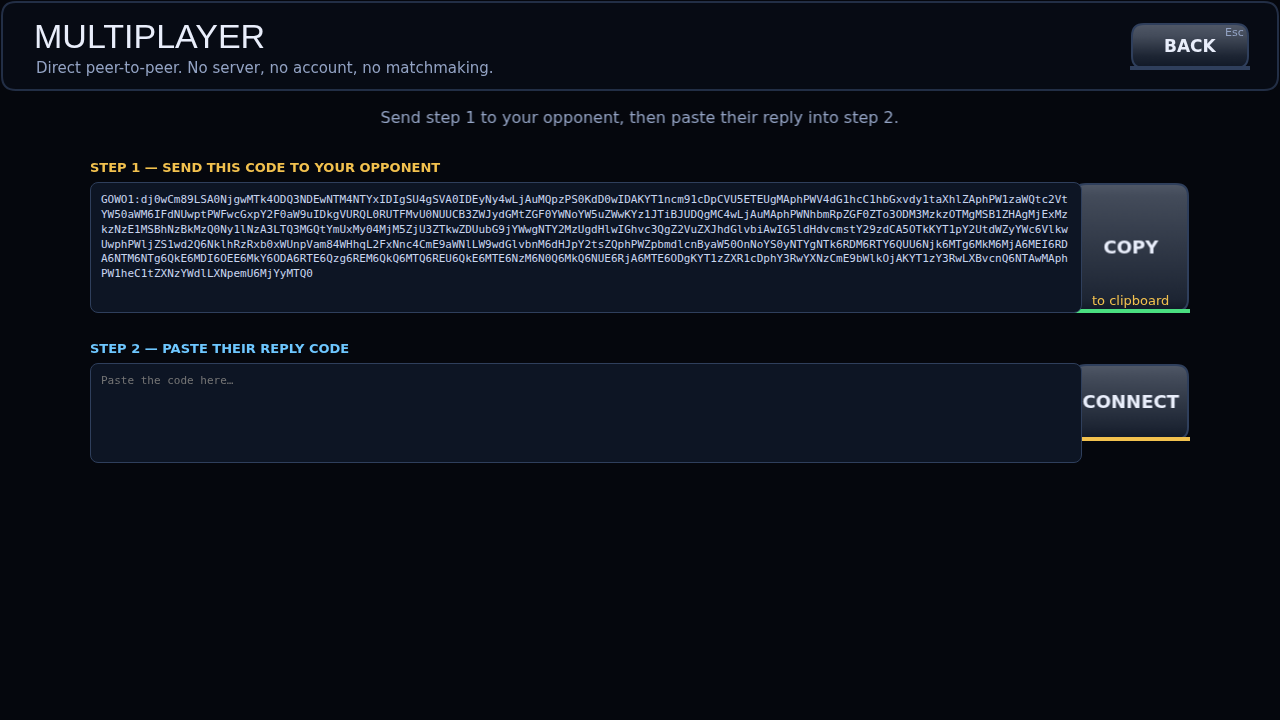
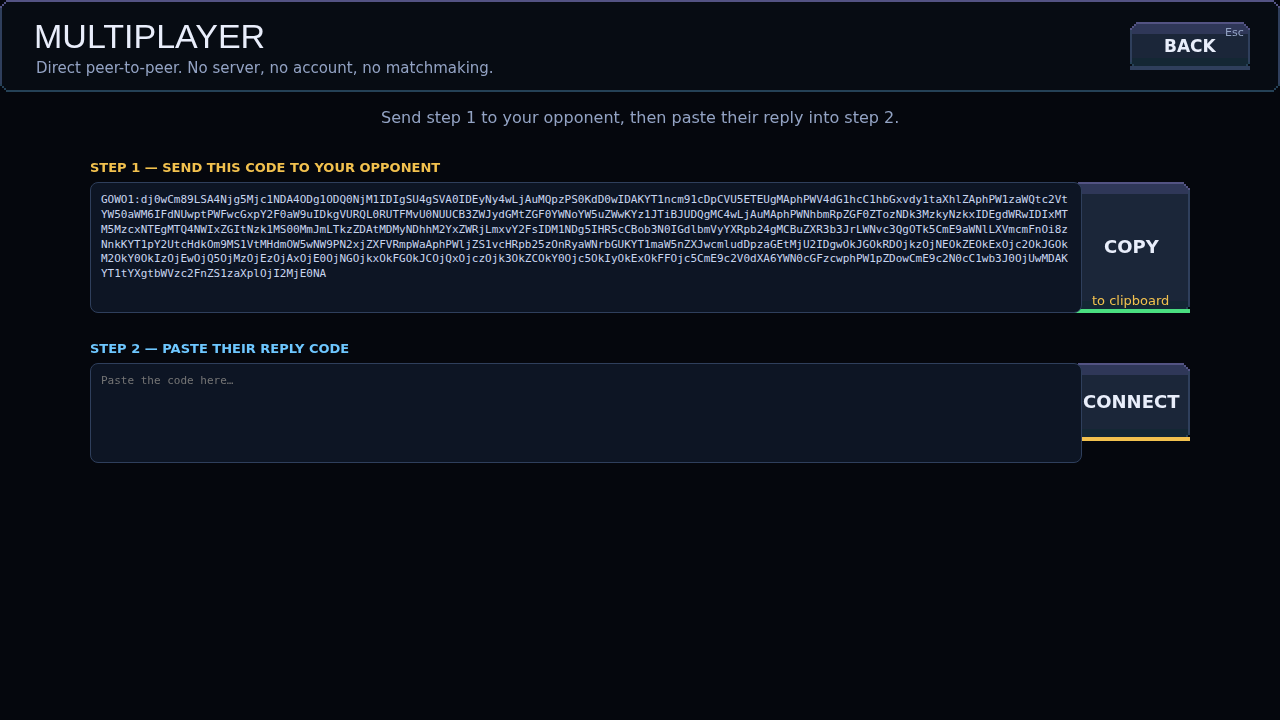
Draw the interface as pixel art too
A smoothly rounded, antialiased panel floating over a hard-edged pixel
battlefield reads as two different games stitched together. The panels,
buttons, meters and rating stars are now drawn on the same grid as
everything else: chamfered corners instead of rounded ones, hard one-pixel
borders, and the same implied light direction.

The bevel lives in the fixed border bands rather than across the whole
face, because 9-slice stretches the middle — putting a tone change there
smears it into one hard line across the centre of every button.

Claude-Session: https://claude.ai/code/session_01FfdsbES3pBhqF3ja5SmriR

diff --git a/src/gfx/textureFactory.ts b/src/gfx/textureFactory.ts
@@ -3,7 +3,8 @@ import { TURRETS } from '../data/turrets'
 import type { ProjectileId } from '../data/types'
 import { UNITS } from '../data/units'
 import { AGE_THEMES, UI } from './palette'
-import { Canvas2D, css, makeCanvas, roundRect, shade } from './painter'
+import { Canvas2D, makeCanvas } from './painter'
+import Pix, { ramp } from './pixel'
 import {
   drawBase,
   drawCloud,
@@ -61,69 +62,99 @@ function addCanvas(scene: Phaser.Scene, key: string, c: Canvas2D): void {
   scene.textures.addCanvas(key, c.canvas)
 }
 
-/** UI chrome: rounded panels, buttons, meters. Drawn once, stretched via 9-slice. */
+/**
+ * UI chrome, drawn once and stretched via 9-slice.
+ *
+ * These are pixel art too. A smoothly rounded, antialiased panel floating over
+ * a hard-edged pixel battlefield reads as two different games stitched
+ * together, so the frames are chamfered rather than rounded and every edge is
+ * a hard one-pixel line. They are authored at half size and emitted at double,
+ * which keeps their borders the same weight as the world's.
+ */
 function buildUiTextures(scene: Phaser.Scene): void {
-  const panel = makeCanvas(64, 64)
-  roundRect(panel.ctx, 2, 2, 60, 60, 14)
-  const pg = panel.ctx.createLinearGradient(0, 0, 0, 64)
-  pg.addColorStop(0, css(UI.panelLight, 0.96))
-  pg.addColorStop(1, css(UI.panel, 0.96))
-  panel.ctx.fillStyle = pg
-  panel.ctx.fill()
-  panel.ctx.strokeStyle = css(UI.panelEdge, 0.95)
-  panel.ctx.lineWidth = 2
-  panel.ctx.stroke()
-  addCanvas(scene, 'ui:panel', panel)
+  const CORNER = 4
 
-  const glass = makeCanvas(64, 64)
-  roundRect(glass.ctx, 2, 2, 60, 60, 14)
-  glass.ctx.fillStyle = 'rgba(8,12,22,0.72)'
-  glass.ctx.fill()
-  glass.ctx.strokeStyle = css(UI.panelEdge, 0.7)
-  glass.ctx.lineWidth = 2
-  glass.ctx.stroke()
-  addCanvas(scene, 'ui:glass', glass)
-
-  const button = makeCanvas(64, 64)
-  roundRect(button.ctx, 2, 2, 60, 60, 12)
-  const bg = button.ctx.createLinearGradient(0, 0, 0, 64)
-  bg.addColorStop(0, css(shade(UI.panelLight, 0.24)))
-  bg.addColorStop(1, css(shade(UI.panel, -0.1)))
-  button.ctx.fillStyle = bg
-  button.ctx.fill()
-  button.ctx.strokeStyle = css(UI.panelEdge)
-  button.ctx.lineWidth = 2
-  button.ctx.stroke()
-  addCanvas(scene, 'ui:button', button)
-
-  const solid = makeCanvas(8, 8)
-  solid.ctx.fillStyle = '#ffffff'
-  solid.ctx.fillRect(0, 0, 8, 8)
-  addCanvas(scene, 'ui:pixel', solid)
-
-  // Soft rounded bar used for every meter in the HUD.
-  const bar = makeCanvas(32, 32)
-  roundRect(bar.ctx, 0, 0, 32, 32, 15)
-  bar.ctx.fillStyle = '#ffffff'
-  bar.ctx.fill()
-  addCanvas(scene, 'ui:bar', bar)
-
-  // Star used for campaign ratings.
-  const star = makeCanvas(48, 48)
-  const sctx = star.ctx
-  sctx.beginPath()
-  for (let i = 0; i < 10; i += 1) {
-    const r = i % 2 === 0 ? 22 : 9
-    const a = (i / 10) * Math.PI * 2 - Math.PI / 2
-    const x = 24 + Math.cos(a) * r
-    const y = 24 + Math.sin(a) * r
-    if (i === 0) sctx.moveTo(x, y)
-    else sctx.lineTo(x, y)
+  /**
+   * A chamfered frame: square corners knocked back a few pixels, a lit top
+   * edge and a shadowed bottom one, so panels have the same implied light
+   * direction as everything else on screen.
+   */
+  const frame = (fillColor: number, edge: number, opts: { alpha?: number; raised?: boolean } = {}) => {
+    const s = 32
+    const p = new Pix(s, s)
+    const alpha = Math.round((opts.alpha ?? 1) * 255)
+    const body = ramp(fillColor, { contrast: 0.6 })
+    for (let y = 0; y < s; y += 1) {
+      for (let x = 0; x < s; x += 1) {
+        // Knock the corners back so the frame reads as chamfered, not rounded.
+        const cornerX = Math.min(x, s - 1 - x)
+        const cornerY = Math.min(y, s - 1 - y)
+        if (cornerX + cornerY < CORNER) continue
+        // The bevel has to live inside the fixed border bands: 9-slice
+        // stretches the middle, so any tone change there smears into one hard
+        // line across the centre of every button.
+        const bevel = opts.raised ? (y < 6 ? body[3] : y > s - 7 ? body[1] : body[2]) : body[2]
+        p.set(x, y, bevel, alpha)
+      }
+    }
+    // One-pixel border, following the chamfer.
+    const edgeRamp = ramp(edge, { contrast: 0.5 })
+    for (let i = 0; i < s; i += 1) {
+      for (const [x, y] of [
+        [i, 0],
+        [i, s - 1],
+        [0, i],
+        [s - 1, i]
+      ] as [number, number][]) {
+        const cornerX = Math.min(x, s - 1 - x)
+        const cornerY = Math.min(y, s - 1 - y)
+        if (cornerX + cornerY < CORNER) continue
+        p.set(x, y, y < 2 ? edgeRamp[4] : y > s - 3 ? edgeRamp[1] : edgeRamp[2], 255)
+      }
+    }
+    // The chamfer itself.
+    for (let i = 0; i < CORNER; i += 1) {
+      const j = CORNER - 1 - i
+      p.set(i, j, edgeRamp[4], 255)
+      p.set(s - 1 - i, j, edgeRamp[4], 255)
+      p.set(i, s - 1 - j, edgeRamp[1], 255)
+      p.set(s - 1 - i, s - 1 - j, edgeRamp[1], 255)
+    }
+    return p.toCanvasScaled(2) as Canvas2D
   }
-  sctx.closePath()
-  sctx.fillStyle = '#ffffff'
-  sctx.fill()
-  addCanvas(scene, 'ui:star', star)
+
+  addCanvas(scene, 'ui:panel', frame(UI.panel, UI.panelEdge, { alpha: 0.96 }))
+  addCanvas(scene, 'ui:glass', frame(0x080e16, UI.panelEdge, { alpha: 0.74 }))
+  addCanvas(scene, 'ui:button', frame(UI.panelLight, UI.panelEdge, { raised: true }))
+
+  const solid = new Pix(4, 4)
+  solid.fill(0, 0, 4, 4, 0xffffff)
+  addCanvas(scene, 'ui:pixel', solid.toCanvas() as Canvas2D)
+
+  // Meter bar: a hard capsule with the corner pixels cut, so a filling bar has
+  // a crisp leading edge instead of a soft one.
+  const bar = new Pix(16, 16)
+  bar.fill(0, 0, 16, 16, 0xffffff)
+  for (const [x, y] of [
+    [0, 0],
+    [15, 0],
+    [0, 15],
+    [15, 15]
+  ] as [number, number][]) {
+    bar.set(x, y, 0, 0)
+  }
+  addCanvas(scene, 'ui:bar', bar.toCanvasScaled(2) as Canvas2D)
+
+  // Campaign rating star, plotted on the grid rather than stroked.
+  const star = new Pix(24, 24)
+  const pts: [number, number][] = []
+  for (let i = 0; i < 10; i += 1) {
+    const r = i % 2 === 0 ? 11 : 4.6
+    const a = (i / 10) * Math.PI * 2 - Math.PI / 2
+    pts.push([12 + Math.cos(a) * r, 12 + Math.sin(a) * r])
+  }
+  star.poly(pts, 0xffffff)
+  addCanvas(scene, 'ui:star', star.toCanvasScaled(2) as Canvas2D)
 }
 
 /** Small emblem shown on a unit card so each roster entry is recognisable. */
